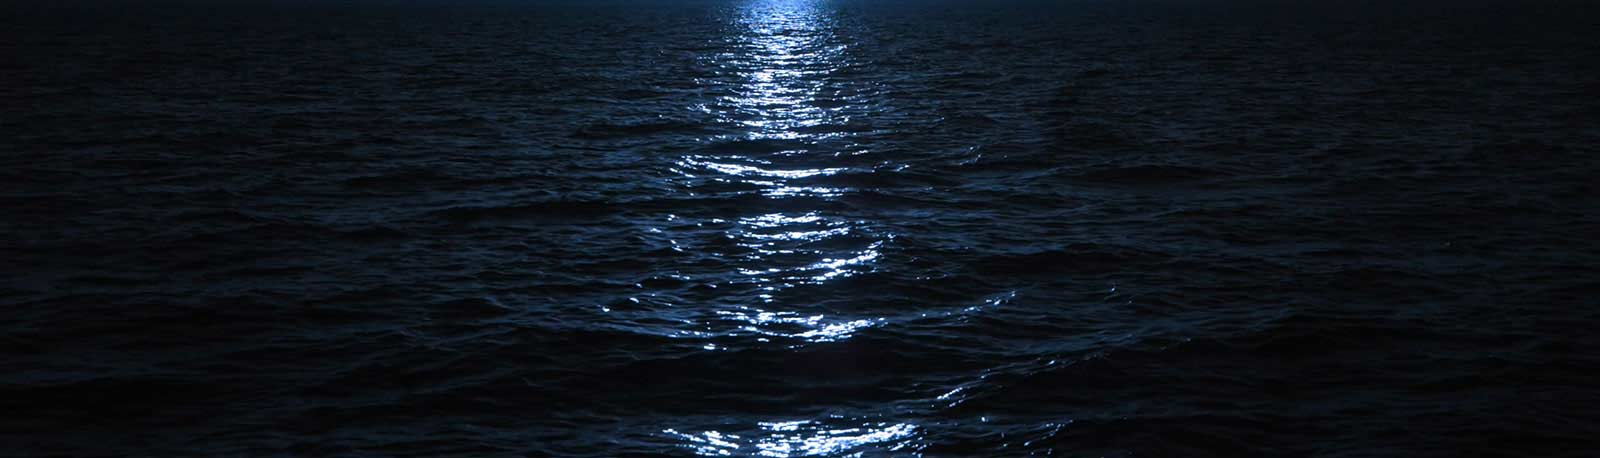
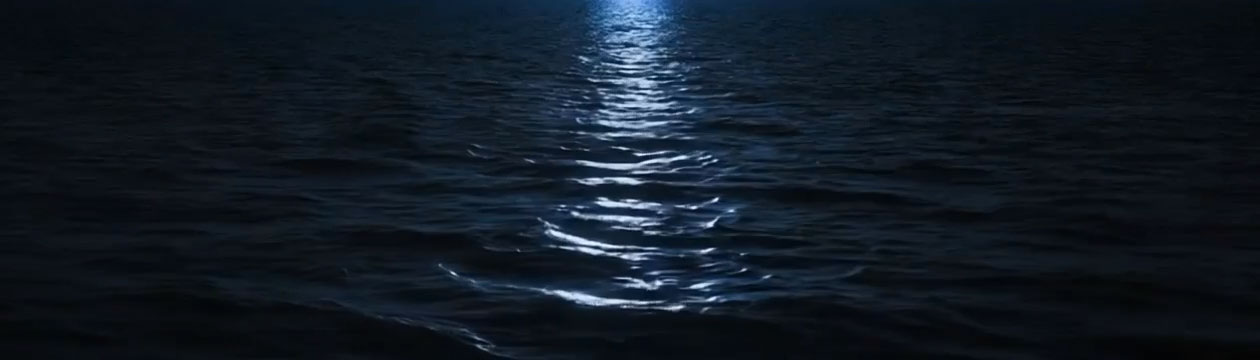
Swap integration plan doc + update scene assets (#30)
- docs/apogee-swap-integration-plan.md: research/decision plan for swap
integration (3 tracks + provider abstraction). Plan only, no
implementation.
- Scene assets: smaller onboarding ocean clip (1.1 MB to 1.06 MB) and
poster (56 KB to 41 KB).

<!-- codesmith:footer -->
---
<a
href="https://app.blacksmith.sh/Resolvr-io/codesmith/apogee/pr/30"><picture><source
media="(prefers-color-scheme: dark)"
srcset="https://pr-comments-assets.blacksmith.sh/codesmith/view-with-codesmith-dark-v2.svg"><source
media="(prefers-color-scheme: light)"
srcset="https://pr-comments-assets.blacksmith.sh/codesmith/view-with-codesmith-light-v2.svg"><img
alt="View with Codesmith"
src="https://pr-comments-assets.blacksmith.sh/codesmith/view-with-codesmith-dark-v2.svg"></picture></a>
<a
href="https://backend.blacksmith.sh/track/enable-autofix?expires=1787314225&installation_model_id=20418&pr_number=30&repository=Resolvr-io%2Fapogee&return_to=https%3A%2F%2Fgithub.com%2FResolvr-io%2Fapogee%2Fpull%2F30&signature=1dc7066b95e45645666698fcba44cdf89f75828d49e1f429d957ace924f1e04b"><picture><source
media="(prefers-color-scheme: dark)"
srcset="https://pr-comments-assets.blacksmith.sh/codesmith/autofix-with-codesmith-dark.svg"><source
media="(prefers-color-scheme: light)"
srcset="https://pr-comments-assets.blacksmith.sh/codesmith/autofix-with-codesmith-light.svg"><img
alt="Autofix with Codesmith"
src="https://pr-comments-assets.blacksmith.sh/codesmith/autofix-with-codesmith-dark.svg"></picture></a>
[…]

diff --git a/docs/apogee-swap-integration-plan.md b/docs/apogee-swap-integration-plan.md
@@ -1,0 +1,103 @@
+# Apogee swap integration: research and decision plan
+
+Monday, July 20, 2026
+
+Goal: select and validate the integration method for three swap categories, producing one Architecture Decision Record (ADR) per track plus a shared provider abstraction spec. Do not begin implementation of any track until its decision gate passes.
+
+## Constraints (apply to all tracks)
+
+1. **Self-custody boundary.** Apogee never holds a seed outside the offscreen engine. Any swap protocol requiring key material or PSET signing runs in the offscreen document. The page provider and side panel receive watch-only data and approval requests only.  
+2. **MV3 environment.** Service workers are evicted. Any swap with a multi-step lifecycle (lockup, claim, refund) must survive eviction: persist swap state to storage, resume via chrome.alarms, and handle the case where the user closes the browser mid-swap. Treat this as a first-class evaluation criterion, not an implementation detail.  
+3. **WASM/browser feasibility.** Candidate protocols must be executable from a browser extension: WebSocket or HTTPS APIs, no native binaries, no long-lived daemon requirement on the client.  
+4. **Trust model must be surfaced, not hidden.** Where a swap is custodial in transit (track 2), the UI must say so. Where it is atomic (tracks 1 and 3), the UI may say that too. No "Swapped to X" labels without a tooltip or detail view explaining who holds funds and when.  
+5. **Compliance posture.** Resolvr is a regulated company. Any third-party provider integration needs a jurisdiction and terms-of-service review before the decision gate closes. Specifically verify US availability, since several candidates block US users.  
+6. **Provider abstraction.** All three tracks implement against a common `SwapProvider` interface (quote, initiate, monitor, claim/refund, status). One provider per track is fine at launch, but the interface must allow a second provider without touching UI code. Mirror the existing Esplora failover pattern.
+
+## Track 1: L-BTC \<\> USDt (native Liquid atomic swap)
+
+### Candidates
+
+- **SideSwap Instant Swap API.** Dealer-quoted price, cooperative PSET construction over WebSocket, single atomic Liquid transaction. Roughly 0.6% instant swap fee. Reference client in the sideswapclient repo (Rust core).  
+- **SideSwap Swap Market.** Order book with market and limit orders, 0.2% taker fee or 500 sats minimum, partial fills supported. More complex client protocol, better pricing.  
+- **TDEX.** Open protocol for Liquid atomic swaps with independent liquidity providers. Verify current network health, active providers, USDt pair liquidity, and TypeScript SDK maturity before treating it as viable.  
+- **Boltz.** Confirm whether Boltz supports any USDt pair. Working assumption: it does not (BTC, L-BTC, Lightning only). If confirmed, exclude and note in the ADR.
+
+### Research tasks
+
+1. Read the SideSwap API docs end to end (sideswap.io/docs). Document the exact instant swap message flow: price subscription, swap request, PSET exchange, signing order, broadcast responsibility, timeout behavior.  
+2. Confirm the protocol works from a browser: WebSocket endpoint reachable from an MV3 service worker or offscreen document, no client daemon assumed. Identify any origin or auth requirements.  
+3. Verify LWK (`lwk_wasm`) exposes what the flow needs: PSET parse, unblinding of counterparty outputs, input signing on an arbitrary externally constructed PSET, and blinding factor access. List any gaps against the lwk\_wasm API surface actually shipped in the version Apogee pins.  
+4. Specify dealer PSET verification: before signing, unblind and confirm asset IDs, amount paid to our address vs the quote (with an explicit slippage tolerance), our change outputs, and fee. This check lives in the offscreen engine. Write it as a testable pure function over a parsed PSET.  
+5. Assess SideSwap dealer availability history if discoverable; otherwise define client-side behavior on dealer downtime (fail closed, clear error, no retry loops that spam quotes).  
+6. Evaluate the SideSwap PayJoin API as a sibling deliverable: server-provided L-BTC UTXOs let a USDt-only wallet pay fees in USDt. Same cooperative-PSET shape. Decide whether it ships in the same milestone or after; it likely removes the current "no L-BTC for fees" error path.
+
+### Spike
+
+Build a throwaway script (Node or a test page, not the extension) that completes one testnet instant swap L-BTC to USDt using lwk\_wasm and the SideSwap API, including the verification function from task 4\. Success criterion: swap settles, verification rejects a tampered PSET in a negative test.
+
+### Decision gate
+
+Choose Instant Swap vs Swap Market vs TDEX based on: protocol complexity in a browser context, fee/price quality at expected trade sizes ($10 to $10k), liquidity depth, and verification tractability. Default expectation is SideSwap Instant Swap first, Swap Market as a later upgrade behind the same interface. Record in ADR-1.
+
+## Track 2: USDt \<\> external chains (Ethereum, Solana, Tron, BNB)
+
+This track is categorically different: it is custodial in transit. The wallet sends Liquid USDt to a provider address and the provider pays out on the destination chain (or the reverse). No atomic construction exists here. The decision is which counterparty risk to take and how to present it.
+
+### Candidates
+
+- **SideShift.** Used by Aqua. API-driven, variable and fixed-rate shifts, affiliate revenue share. Known jurisdiction blocking; verify current US policy explicitly, since this may disqualify it outright for Apogee's audience.  
+- **Changelly.** Aqua's second provider. Broader jurisdiction coverage but KYC holds on flagged transactions; document the hold/refund process and its failure modes.  
+- **Others (ChangeNOW, FixedFloat, similar).** Screen at least two more for terms, US availability, API quality, and payout reliability reputation. Reject quickly if terms are unacceptable; do not deep-dive more than the top two viable options.
+
+### Research tasks
+
+1. Compliance first: for each candidate, document jurisdiction restrictions, KYC trigger conditions, licensing status, and terms-of-service obligations on integrators. Produce a one-page memo for legal review before any technical work. If no provider is acceptable for US users, the ADR outcome may be "do not ship track 2 initially," and that is a valid outcome.  
+2. For surviving candidates, document the API lifecycle: quote (fixed vs floating rate), deposit address issuance, min/max limits per pair, confirmation requirements, payout timing, refund path when a deposit misses the rate window or limits, and status polling/webhooks.  
+3. Define the MV3 monitoring story: a shift can take minutes to hours. Persist shift state, poll on chrome.alarms, notify on completion, and handle the browser being closed for the entire duration (state reconciliation on next open).  
+4. Define UX for both directions. Receiving is the sharper problem: the "your Ethereum USDt address" shown to the user is provider-owned. Specify labeling that makes this legible (provider name, trust window, limits) without burying it. Study Aqua's network-selection screen as the baseline and improve on its disclosure.  
+5. Quantify cost: spread vs mid-market at three sizes per corridor, plus fixed fees, for each candidate. A table in the ADR.  
+6. Evaluate affiliate/commission terms as a secondary criterion only after trust, compliance, and reliability.
+
+### Spike
+
+One testnet or small-value mainnet shift each direction with the leading candidate, driven entirely through the API (no provider web UI), with state persisted and resumed across a simulated service worker restart.
+
+### Decision gate
+
+Select zero, one, or two providers. Two is acceptable only if the abstraction keeps UI identical and routing is deterministic (e.g., by corridor or jurisdiction), not a per-swap price race at launch. Record in ADR-2, including the explicit trust disclosure copy.
+
+## Track 3: BTC and Lightning \<\> L-BTC
+
+### Candidates
+
+- **Boltz.** Submarine swaps (Lightning \<\> L-BTC) and chain swaps (BTC \<\> L-BTC). Trust-minimized: atomic via HTLC/Taproot scripts, with cooperative refund paths. Open API, browser-proven (Boltz's own web app runs client-side). Default candidate.  
+- **SideSwap peg-in/peg-out.** Wraps the Liquid federation peg, roughly 0.1%, but on-chain BTC only (no Lightning) and trust in SideSwap's peg service for the peg-out leg. Evaluate as a complement for large on-chain amounts, not a Lightning solution.  
+- **Native peg-in.** Trust-minimized but 102 confirmations and poor UX; peg-out is federation-only. Likely document-and-exclude, but note it as the settlement-assurance ceiling the others are measured against.
+
+### Research tasks
+
+1. Map Boltz swap types to Apogee flows: reverse/normal submarine swaps for Lightning, chain swaps for on-chain BTC. Document script types used today (Taproot), refund and claim mechanics, and timeout block heights per pair.  
+2. Client requirements: what the wallet must generate and store per swap (preimages, keys, refund scripts), what must be broadcast and when, and whether Boltz's cooperative claim (server-assisted) reduces the client's liveness burden. This determines how hard the MV3 problem is.  
+3. MV3 lifecycle design: a swap interrupted by service worker eviction or browser close must be recoverable. Specify persisted swap records, alarm-driven status checks, refund broadcasting after timeout, and a "pending swaps" surface in the side panel. This is the hardest engineering problem in the whole plan; give it proportionate depth.  
+4. Confirm LWK can construct and sign the Liquid-side claim/refund transactions Boltz requires, or whether supplementary code (e.g., from boltz-core) is needed in the offscreen engine.  
+5. Fees and limits: Boltz fee schedule per pair, min/max amounts, and how quoted fees are verified client-side before lockup.  
+6. Decide Lightning receive scope. A Boltz reverse swap gives receive-to-L-BTC per invoice, but a persistent Lightning address is a separate product question (it requires an always-on component). Explicitly out of scope for this decision unless trivially available; note it in the ADR either way.
+
+### Spike
+
+Complete one testnet Lightning-to-L-BTC reverse swap and one L-BTC-to-Lightning submarine swap from a browser context, with the swap surviving a forced service worker restart mid-flight and a successful refund test on an intentionally expired swap.
+
+### Decision gate
+
+Boltz is the presumptive answer; the gate is confirming the MV3 lifecycle is safe (no fund-loss path when the user disappears mid-swap) and that refunds are reliably recoverable from persisted state alone. If chain swaps prove heavy, shipping Lightning pairs first and on-chain BTC later is acceptable. Record in ADR-3.
+
+## Cross-cutting deliverables
+
+1. **`SwapProvider` interface spec** covering all three trust models (atomic same-chain, custodial shift, HTLC cross-layer), with a common swap record schema for persistence and a shared pending-swaps UI contract.  
+2. **Trust disclosure copy** for each category, reviewed once, reused everywhere.  
+3. **Threat model note** per track: what a malicious or failed provider can and cannot do to user funds, and what the client verifies to enforce that.  
+4. **Sequencing recommendation.** Default: Track 1 first (smallest lift, pure LWK/PSET work, immediate product value, and PayJoin falls out of it), Track 3 second (hardest, highest value), Track 2 last or never pending compliance. The agent may propose a different order with justification in the ADRs.
+
+## Output format
+
+Three ADRs (context, options considered, decision, consequences) plus the interface spec, all in `docs/`. Spike code lives in a `spikes/` directory outside `src/` and is not shipped.  